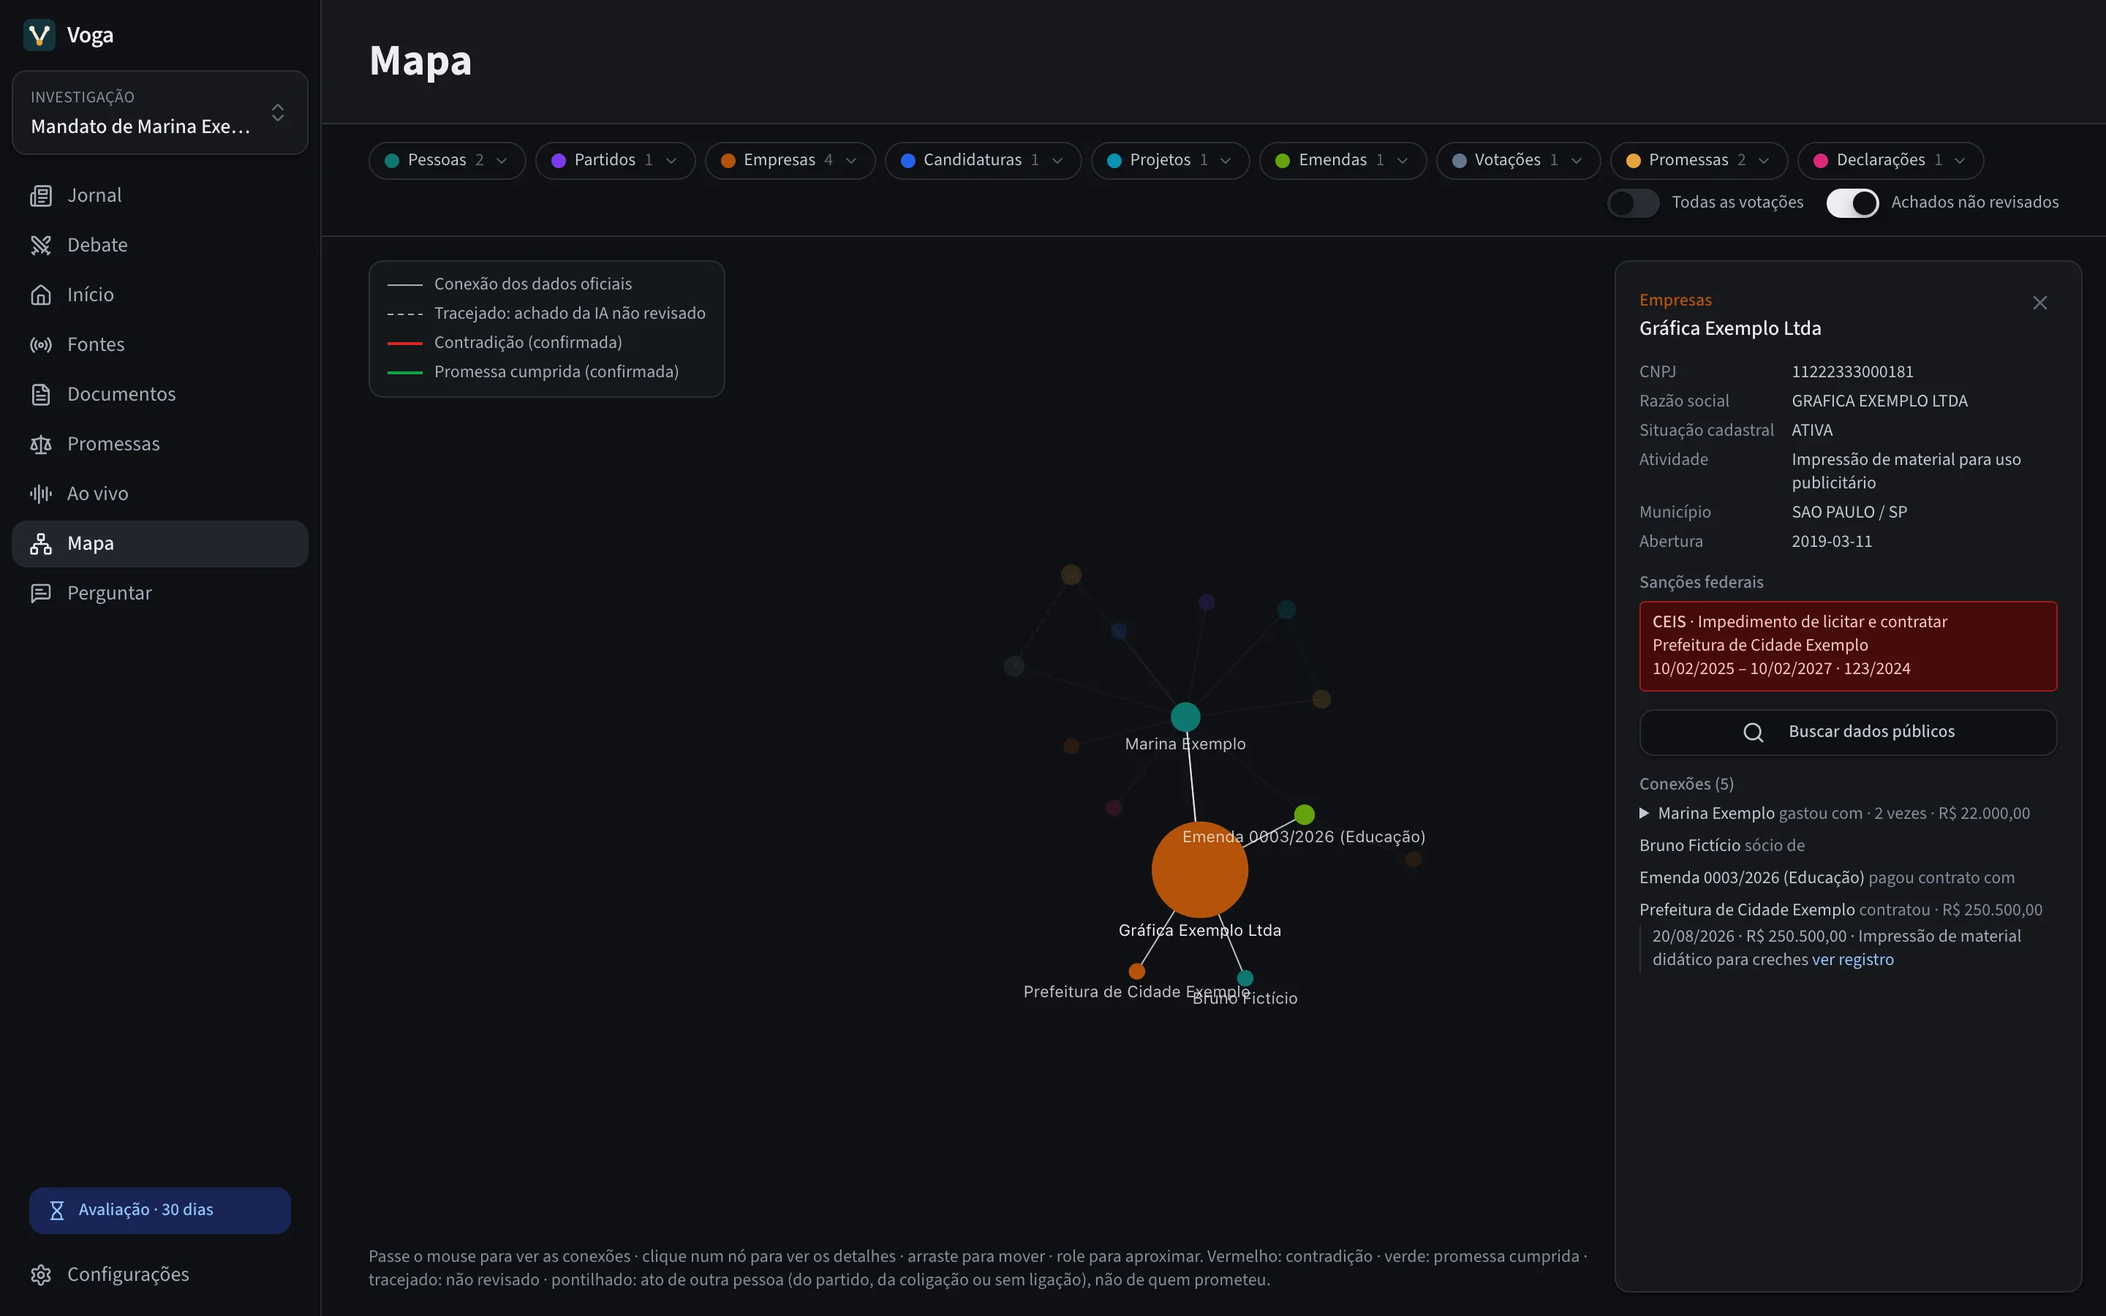
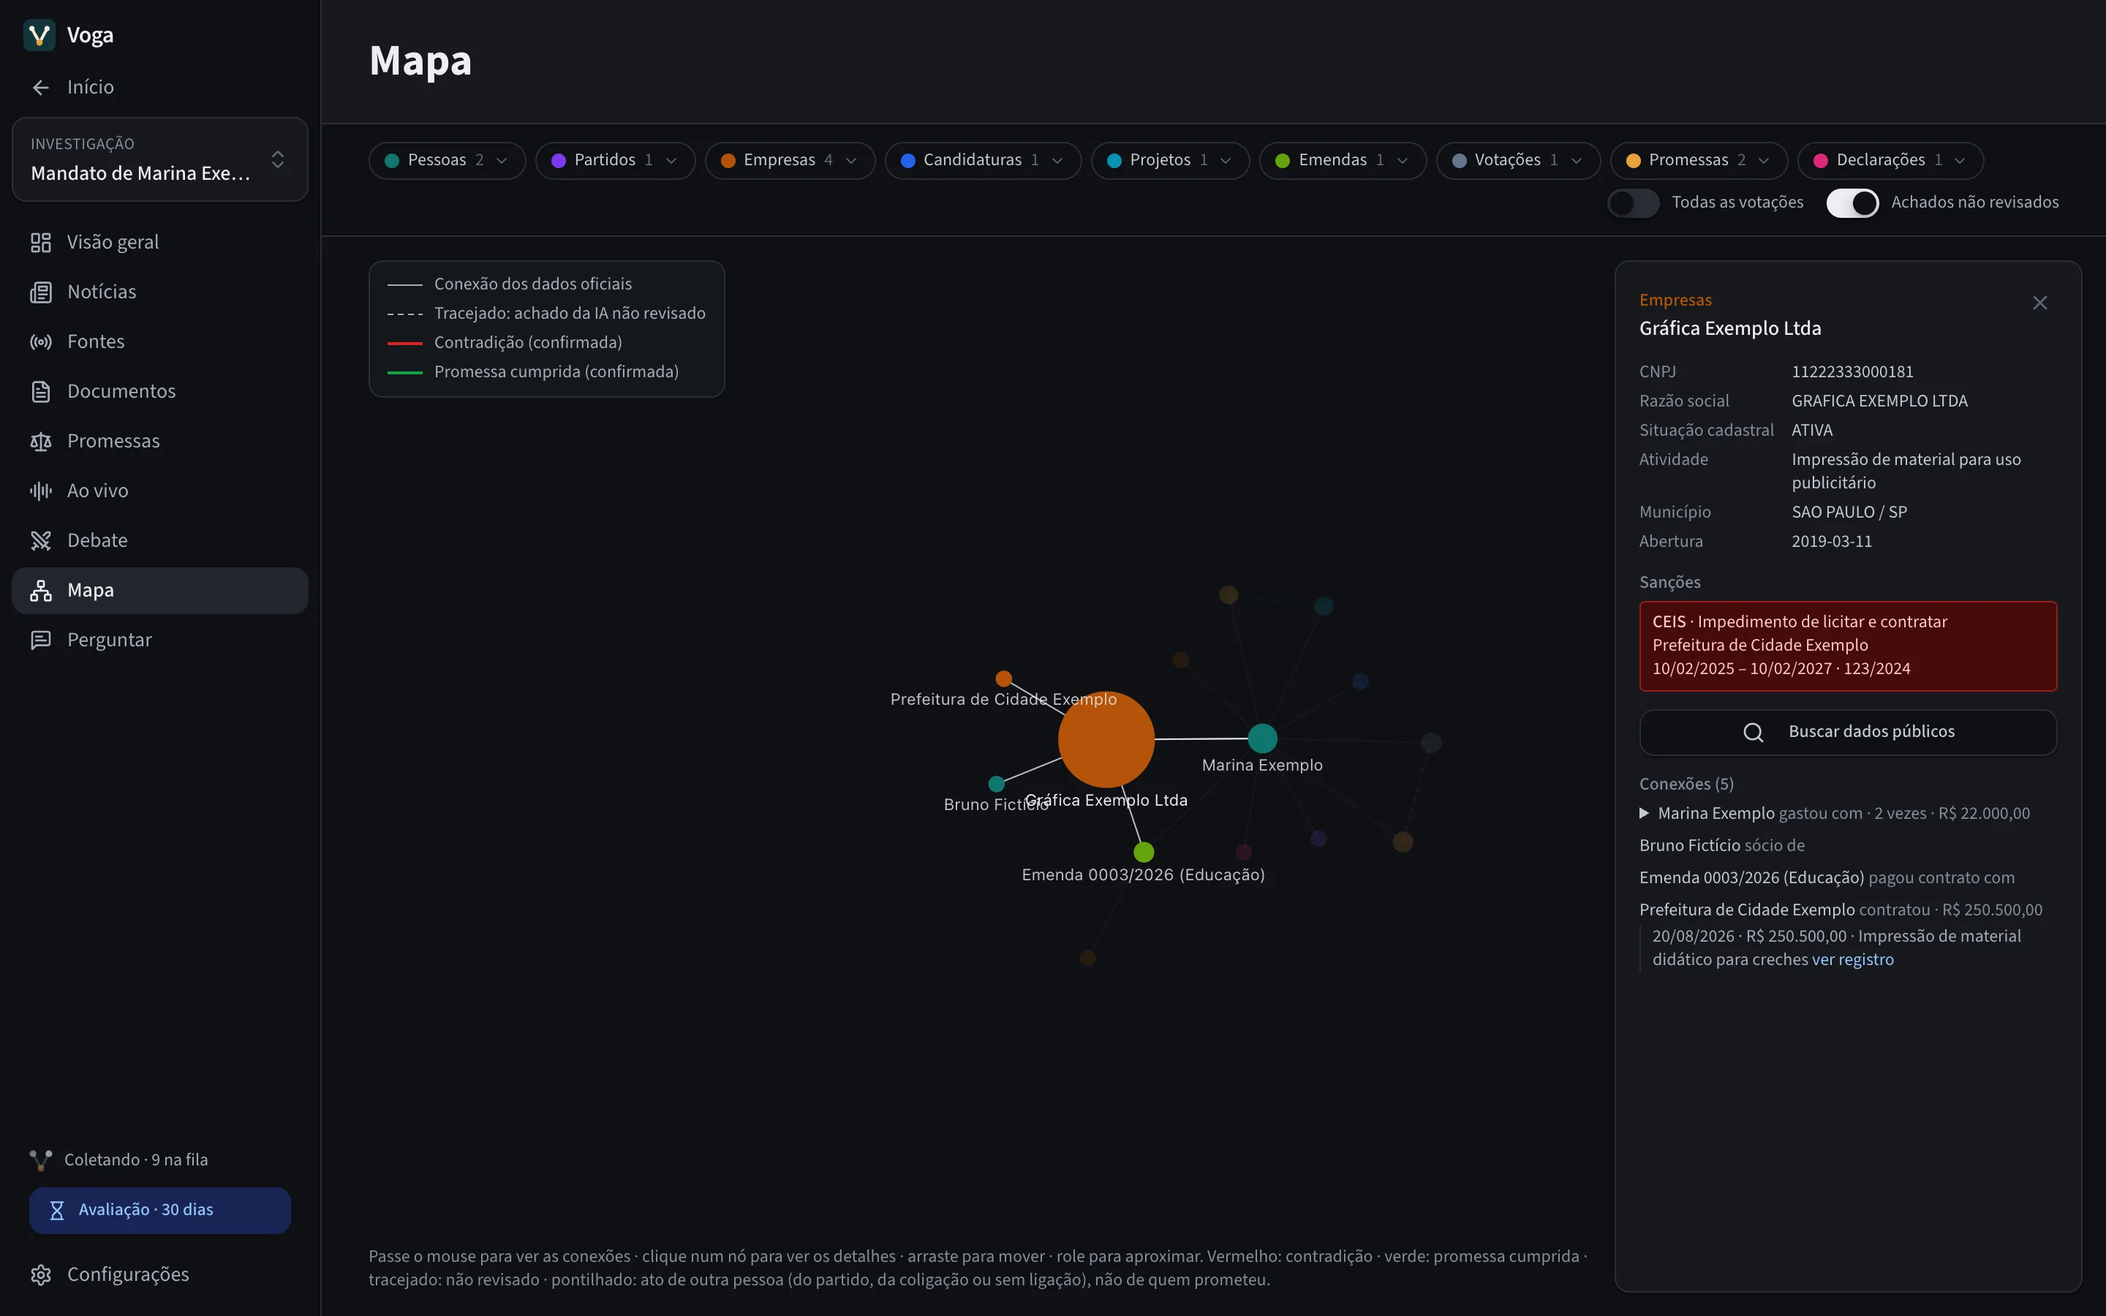
Site for Voga 0.3.0
New sections for Início (cards and placar) and Comparação, the state
transparency portals in Fontes, CEPIM and São Paulo's sanctions in Mapa,
and Escândalos, Acompanhamentos and Agendamento in "Também no Voga".
"Seus dados" gains the news sites (pictures), the CGU and São Paulo
(sanctions lists), IBGE and the state portals.

Screenshots retaken for the new sidebar, plus Início and Comparação: the
script now sets voga.context before each view. Release hand-off notes
(release-*.md) stay out of the public repo.

diff --git a/site/index.html b/site/index.html
@@ -105,6 +105,7 @@
 				<div><dt>Portal da Transparência e Transferegov</dt><dd>Cada emenda parlamentar, quem recebeu o dinheiro e as emendas Pix.</dd></div>
 				<div><dt>PNCP</dt><dd>Licitações e contratos da prefeitura de um prefeito que você vincular.</dd></div>
 				<div><dt>ALESP</dt><dd>Projetos e gastos de gabinete dos deputados estaduais de São Paulo.</dd></div>
+				<div><dt>Portais de transparência dos estados</dt><dd>As emendas dos deputados estaduais de São Paulo, Minas Gerais, Espírito Santo e Bahia, com o órgão, o objeto, a cidade, os valores e quem recebeu.</dd></div>
 				<div><dt>Diários oficiais</dt><dd>Os trechos que citam a pessoa nos diários de centenas de prefeituras, pelo Querido Diário.</dd></div>
 				<div><dt>Notícias, vídeos e redes</dt><dd>Busca de notícias, legendas de vídeos do YouTube com o tempo de cada fala, sites, feeds RSS e perfis no Bluesky e no Mastodon.</dd></div>
 			</dl>
@@ -131,7 +132,7 @@
 		<section class="rail section" id="mapa">
 			<div class="section-head section-head-wide">
 				<h2>Quem pagou quem, num mapa</h2>
-				<p>O Mapa liga pessoas, partidos, projetos, votações, emendas, prefeituras e empresas. Cada empresa ganha o cadastro da Receita, os sócios e as sanções federais do CEIS e do CNEP, conferidas de novo todo dia. Cada ligação abre o registro oficial que a comprova.</p>
+				<p>O Mapa liga pessoas, partidos, projetos, votações, emendas, prefeituras e empresas. Cada empresa ganha o cadastro da Receita, os sócios e as sanções, conferidas de novo todo dia nas listas do governo federal (CEIS, CNEP e CEPIM) e nas do Estado de São Paulo. Cada ligação abre o registro oficial que a comprova, e a Visão geral da investigação mostra as empresas sancionadas ligadas a cada pessoa, com as datas, sem tratar a ligação como acusação.</p>
 			</div>
 			<figure class="shot shot-wide">
 				<img class="light" src="screenshots/map-light.webp" width="2880" height="1800" loading="lazy" alt="Mapa do Voga com uma gráfica aberta no painel: razão social, situação ativa, atividade, uma sanção do CEIS, o sócio e os pagamentos de gabinete, de emenda e de contrato da prefeitura.">
@@ -157,13 +158,50 @@
 			</figure>
 		</section>
 
+		<section class="rail section split" id="comparar">
+			<div class="split-text">
+				<h2>Dois candidatos, ou dois assuntos, lado a lado</h2>
+				<p>Escolha duas ou mais investigações e o Voga mostra onde elas se conectam e onde divergem: as notícias que ficam entre as duas, os partidos, projetos e empresas que aparecem nos registros de ambas, as votações em que votaram juntos e quando discordaram, e os temas das promessas de cada um.</p>
+				<ul class="points">
+					<li>A IA pode escrever um resumo de onde se conectam, onde divergem e o que ainda falta saber, citando os trechos que usou.</li>
+					<li>Com várias abertas, Notícias, Documentos, Mapa e Perguntar valem para todas juntas. No Mapa, o que aparece em mais de uma ganha um contorno.</li>
+					<li>Funciona também com assuntos: inteligência artificial e indústria, por exemplo, com as notícias que falam dos dois.</li>
+				</ul>
+			</div>
+			<figure class="shot">
+				<img class="light" src="screenshots/compare-light.webp" width="2880" height="1800" loading="lazy" alt="Tela Comparação do Voga com o mandato de Marina Exemplo e a prefeitura de Cidade Exemplo: o botão Escrever o resumo, as notícias que ligam as duas investigações e a Gráfica Exemplo Ltda, com quem a deputada gastou e que a prefeitura contratou.">
+				<img class="dark" src="screenshots/compare-dark.webp" width="2880" height="1800" loading="lazy" alt="Tela Comparação do Voga com o mandato de Marina Exemplo e a prefeitura de Cidade Exemplo: o botão Escrever o resumo, as notícias que ligam as duas investigações e a Gráfica Exemplo Ltda, com quem a deputada gastou e que a prefeitura contratou.">
+				<figcaption>Uma deputada e uma prefeita lado a lado: a mesma gráfica aparece nos registros das duas.</figcaption>
+			</figure>
+		</section>
+
+		<section class="rail section" id="inicio">
+			<div class="section-head section-head-wide section-head-top">
+				<h2>Tudo o que você acompanha numa tela</h2>
+				<div class="section-head-text">
+					<p>Ao abrir, o Voga mostra cada investigação num card: se está coletando, indexando ou com alguma fonte falhando, a última contradição ou promessa cumprida, quanto espera a sua revisão e quanto espaço ocupa. O que ainda não foi revisado aparece marcado “a revisar”. Abaixo ficam as últimas notícias dos assuntos que você acompanha, com imagem.</p>
+					<ul class="points">
+						<li>O placar conta só o que você confirmou: contradições, falas checadas como falsas, promessas cumpridas e falas verdadeiras, e escândalos. O que a IA sugeriu e ninguém revisou fica numa nota à parte.</li>
+						<li>Cada número do placar abre as provas.</li>
+					</ul>
+				</div>
+			</div>
+			<figure class="shot shot-wide">
+				<img class="light" src="screenshots/home-light.webp" width="2880" height="1800" loading="lazy" alt="Tela de início do Voga: os cards das investigações de Marina Exemplo, com uma promessa cumprida, e da prefeitura de Cidade Exemplo, com um escândalo a revisar, cada um com fontes, documentos e o que espera revisão; abaixo, o Jornal com as notícias dos assuntos acompanhados.">
+				<img class="dark" src="screenshots/home-dark.webp" width="2880" height="1800" loading="lazy" alt="Tela de início do Voga: os cards das investigações de Marina Exemplo, com uma promessa cumprida, e da prefeitura de Cidade Exemplo, com um escândalo a revisar, cada um com fontes, documentos e o que espera revisão; abaixo, o Jornal com as notícias dos assuntos acompanhados.">
+				<figcaption>O Início, com duas investigações e dois acompanhamentos da demonstração.</figcaption>
+			</figure>
+		</section>
+
 		<section class="rail section" id="mais">
 			<h2>Também no Voga</h2>
 			<ul class="more">
-				<li><h3>Jornal</h3><p>As notícias, vídeos e postagens de todas as investigações, por dia ou pelas mais relevantes da semana. Mais disso e Menos disso ensinam o que importa para você.</p></li>
+				<li><h3>Jornal</h3><p>As notícias, vídeos e postagens dos assuntos que você acompanha, em cards com imagem, por dia ou pelas mais relevantes da semana. Mais disso e Menos disso ensinam o que importa para você.</p></li>
+				<li><h3>Acompanhamentos</h3><p>Além de política, qualquer assunto: um tratamento, uma tecnologia, um mercado, com notícias e vídeos ordenados pelo que tem a ver com ele.</p></li>
 				<li><h3>Perguntar</h3><p>Respostas só com o que foi coletado, cada afirmação ligada à fonte e ao minuto do vídeo. Quando nada responde, ele diz que não encontrou.</p></li>
 				<li><h3>Sugestões de busca</h3><p>Uma vez por dia, a IA sugere buscas para as promessas ainda sem registro. Só rodam as que você aprovar.</p></li>
-				<li><h3>Interesses</h3><p>Além de política, qualquer assunto: um tratamento, uma tecnologia, um mercado, com notícias e vídeos ordenados pelo que tem a ver com ele.</p></li>
+				<li><h3>Escândalos</h3><p>Marque uma notícia como escândalo e diga quem ela envolve. A IA sugere quando uma notícia relata investigação, denúncia ou condenação de alguém que você acompanha; só conta depois que você confirma.</p></li>
+				<li><h3>Agendamento da coleta</h3><p>Para cada investigação, com que frequência buscar cada tipo de fonte e em que horários e dias o Voga pode ir à internet por ela. Dá para pausar tudo de uma vez, e Rodar agora funciona mesmo assim.</p></li>
 			</ul>
 		</section>
 
@@ -178,9 +216,11 @@
 						<tr><th scope="col">Para onde</th><th scope="col">O que vai</th><th scope="col">Quando</th></tr>
 					</thead>
 					<tbody>
-						<tr><th scope="row">Os sites e serviços das suas fontes</th><td>O pedido de cada página ou registro, com o Voga identificado. Câmara, Senado, TSE, Portal da Transparência, PNCP, ALESP, Querido Diário e os sites e feeds que você adicionar.</td><td>Quando cada fonte roda</td></tr>
+						<tr><th scope="row">Os sites e serviços das suas fontes</th><td>O pedido de cada página ou registro, com o Voga identificado. Câmara, Senado, TSE, Portal da Transparência, PNCP, IBGE (para achar a prefeitura), ALESP, os portais de transparência de São Paulo, Minas Gerais, Espírito Santo e Bahia, Querido Diário e os sites e feeds que você adicionar.</td><td>Quando cada fonte roda</td></tr>
+						<tr><th scope="row">Os sites das notícias, vídeos e posts</th><td>O pedido de cada imagem. A cópia guardada é baixada uma vez, com o Voga identificado. Carregando do site (no padrão, só enquanto não há cópia), o pedido vai a cada vez que a notícia aparece, e o site vê esse acesso.</td><td>A cópia, depois da coleta; a do site, ao mostrar a notícia</td></tr>
 						<tr><th scope="row">Bing Notícias e YouTube</th><td>Os nomes e temas que você acompanha.</td><td>Nas buscas de notícias e de vídeos</td></tr>
 						<tr><th scope="row">minhareceita.org</th><td>O CNPJ de cada empresa do Mapa.</td><td>Quando uma empresa aparece ou você pede os dados</td></tr>
+						<tr><th scope="row">Controladoria-Geral da União e Estado de São Paulo</th><td>Nada seu: só o download das listas de sanções (CEIS, CNEP, CEPIM e as sanções paulistas).</td><td>Uma vez por dia, quando há empresas no Mapa</td></tr>
 						<tr><th scope="row">Hugging Face e GitHub</th><td>Nada seu: só o download dos modelos de IA e do yt-dlp, que lê os vídeos.</td><td>Ao baixar cada modelo; o yt-dlp, uma vez por semana</td></tr>
 						<tr><th scope="row">GitHub</th><td>A consulta por versão nova do Voga.</td><td>Ao abrir o app</td></tr>
 						<tr><th scope="row">A IA que você conectar</th><td>O texto que ela lê e as suas perguntas. Nas sessões ao vivo, o áudio, se a transcrição for dela.</td><td>Só se você conectar uma</td></tr>
@@ -226,6 +266,10 @@
 				<div>
 					<dt>O Voga diz quem está mentindo?</dt>
 					<dd>Não. Ele mostra uma promessa ao lado do registro que pode cumpri-la ou contradizê-la, com o motivo, e marca como sugestão. Contradição é o que você confirma depois de ler a evidência.</dd>
+				</div>
+				<div>
+					<dt>O placar diz quem mente?</dt>
+					<dd>Não. Ele conta o que você confirmou depois de ler a evidência: uma contradição entre uma promessa e um voto, ou uma fala checada como falsa contra um registro. Uma contradição pode ter explicação, e o Voga mostra o registro para você julgar. O que a IA sugeriu e ninguém revisou não entra no placar.</dd>
 				</div>
 				<div>
 					<dt>Preciso pagar por uma IA?</dt>

diff --git a/site/styles.css b/site/styles.css
@@ -581,6 +581,16 @@ img {
 	max-width: none;
 }
 
+/* When the text runs well past the title, both start at the top */
+.section-head-top {
+	align-items: start;
+}
+
+.section-head-text {
+	display: grid;
+	gap: var(--space-5);
+}
+
 .sources {
 	display: grid;
 	grid-template-columns: repeat(2, minmax(0, 1fr));
@@ -696,7 +706,7 @@ img {
 
 .more {
 	display: grid;
-	grid-template-columns: repeat(4, minmax(0, 1fr));
+	grid-template-columns: repeat(3, minmax(0, 1fr));
 	gap: var(--space-8);
 	padding: 0;
 	list-style: none;

diff --git a/CLAUDE.md b/CLAUDE.md
@@ -13,7 +13,7 @@ The public home of Voga, published as the GitHub repository `feliperohde/voga`: 
 ## Commands
 
 - Preview: `python3 -m http.server -d site 8080`, then http://localhost:8080.
-- Screenshots of the app: in the app repo `cd frontend && pnpm build:mock`, then here `node scripts/screenshots.mjs ../voga/frontend/out-mock [claims map live]`. It serves the demo itself, opens the demo's politics investigation (`inv-demo`) in Portuguese, in both themes, and writes `site/screenshots/{name}-{light|dark}.webp` (1440×900 at 2x). The Map's layout differs on every load: the script finds the biggest company on the canvas, opens its panel and asks for its public data. The live view starts a session and waits for the demo's scripted debate.
+- Screenshots of the app: in the app repo `cd frontend && pnpm build:mock`, then here `node scripts/screenshots.mjs ../voga/frontend/out-mock [claims map live home compare]`. It serves the demo itself, in Portuguese, in both themes, and writes `site/screenshots/{name}-{light|dark}.webp` (1440×900 at 2x). Before each view it sets what is open in the app (`voga.context` in localStorage): the demo's politics investigation (`inv-demo`) for claims, map and live, nothing for Home, and `inv-demo` with the mayor's `inv-prefeita` for the comparison. The Map's layout differs on every load: the script finds the biggest company on the canvas, opens its panel and asks for its public data. The live view starts a session and waits for the demo's scripted debate.
 - Release: see below.
 
 ## Publishing a version
@@ -31,10 +31,10 @@ The site needs no change for a new version: `main.js` asks GitHub's API for the 
 
 ## Content rules
 
-- Brazilian Portuguese, for people who follow politics, not developers. Say what the app does with the app's own names for things (Promessas, Mapa, Ao vivo, Fontes, Perguntar, Jornal).
+- Brazilian Portuguese, for people who follow politics, not developers. Say what the app does with the app's own names for things (Início, Visão geral, Promessas, Mapa, Ao vivo, Fontes, Perguntar, Jornal, Comparação, Acompanhamentos).
 - No em dash. None of: poderoso, revolucionário, inteligente, fácil, simples, incrível, or their English equivalents. No marketing numbers, no testimonials. Buttons name the action ("Baixar para Mac", "Ver como instalar").
 - Voga never presents a finding as fact: write "possível contradição", "sugestão", "você confirma". It is the app's core rule.
-- Never write that data never leaves the computer. The "Seus dados" table lists every place something goes, from the app's code: the sources' sites and services, Bing News and YouTube (the followed names), minhareceita.org (CNPJs), Hugging Face and GitHub (model and yt-dlp downloads), GitHub (update check), and only if set up, the connected AI provider and Brave Search or SearXNG. Update the table when the app starts talking to something new.
+- Never write that data never leaves the computer. The "Seus dados" table lists every place something goes, from the app's code: the sources' sites and services (with IBGE, to find a mayor's city, and the transparency portals of São Paulo, Minas Gerais, Espírito Santo and Bahia), the news sites (their pictures), Bing News and YouTube (the followed names), minhareceita.org (CNPJs), the CGU and the State of São Paulo (sanctions lists), Hugging Face and GitHub (model and yt-dlp downloads), GitHub (update check), and only if set up, the connected AI provider and Brave Search or SearXNG. Update the table when the app starts talking to something new: `grep -rhoE 'https?://[A-Za-z0-9.-]+' frontend/src-tauri/src` in the app repo lists the hosts.
 - Screenshots come only from the app's demo (`pnpm build:mock`), whose people, parties, companies and outlets are fictional. Never show a real politician. The example in the hero uses the demo's Marina Exemplo and is labeled as an example.
 - The trial features (from the app's `entitlement::FEATURE_IDS`, flowsint left out): Perguntar, Mapa, Ao vivo, Fontes oficiais, Descoberta automática.
 - Contact is only through the repository's GitHub issues (no email on the site for now), including requests for a license key. The app is signed and notarized by Apple, so the install steps have no Gatekeeper workaround: only macOS's "app downloaded from the internet" prompt on the first open.

diff --git a/design.md b/design.md
@@ -29,7 +29,7 @@ The mark is a graph: two nodes joined at an amber node. The site repeats it wher
 ## Layout
 
 - One rail, `--rail` 1160px, gutters `--gutter` (24px, 16px on phones). Sections are separated by a hairline as wide as the content.
-- Hero: text left (7fr), the example panel right (5fr). Promessas and Ao vivo: text against a screenshot (5fr/7fr, mirrored for Ao vivo). Mapa: the head split in two over a full-width screenshot. Fontes, Perguntas: two columns of ruled rows. Também: four ruled columns. Seus dados: a table (one block per row on phones). Instalar: the steps beside a notes panel.
+- Hero: text left (7fr), the example panel right (5fr). Promessas, Ao vivo and Comparar: text against a screenshot (5fr/7fr, mirrored for Ao vivo, so the text alternates sides). Mapa and Início: the head split in two over a full-width screenshot (Início's head starts at the top, its text being longer). Fontes, Perguntas: two columns of ruled rows. Também: three ruled columns. Seus dados: a table (one block per row on phones). Instalar: the steps beside a notes panel.
 - Panels (radius `--radius-panel`) only for the example and the install notes; screenshots have `--radius-shot` and the one shadow.
 - Below 1000px the nav moves into a `<details>` menu; below 400px the menu button is icon-only. Check 320, 360, 768 and 1440px in both themes, with no horizontal scroll.
 
